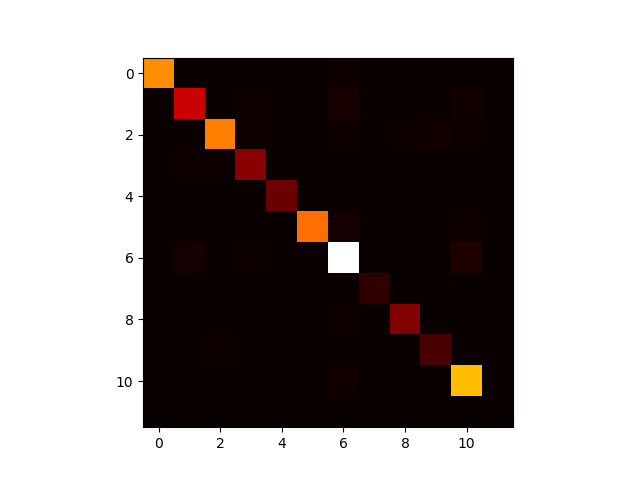
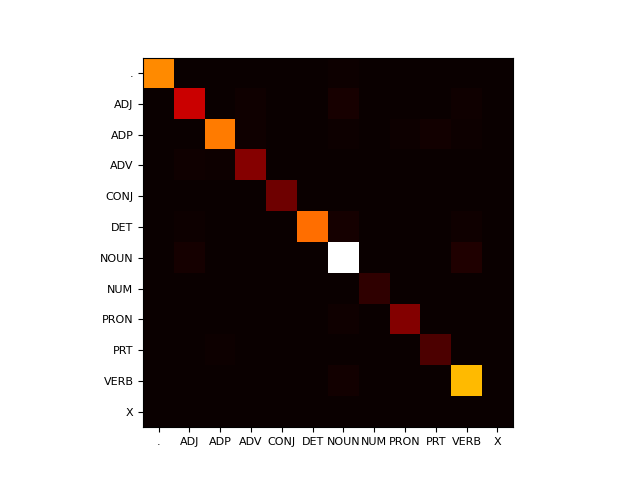
final

diff --git a/tagger.py b/tagger.py
@@ -114,8 +114,14 @@ class Tagger:
             trueTag = self.taginds[trueTag]
             confmat[pred,trueTag]+=1
         accuracy = np.sum(np.array([confmat[i,i] for i in range(numtags)]))/total
-        perPOS_acc = [confmat[i,i]/(max(1,np.sum(confmat[:,i]))) for i in np.arange(numtags)]
-        return confmat,accuracy,perPOS_acc
+        ppos = []
+        pposr = [confmat[i,i]/(max(1,np.sum(confmat[:,i]))) for i in np.arange(numtags)]
+        pposp = [confmat[i,i]/(max(1,np.sum(confmat[i,:]))) for i in np.arange(numtags)]
+        pposf1 = [((2*pposp[i]*pposr[i])/((pposp[i])+(pposr[i]))) for i in np.arange(numtags)]
+        ppos.append(pposp)
+        ppos.append(pposr)
+        ppos.append(pposf1)
+        return confmat,accuracy,np.array(ppos)
     def trainOn(self, trainSents):
         mapped_sents,leastFreqWords = self.get_mapped_sentences(trainSents)
         
@@ -181,7 +187,7 @@ class Tagger:
         words_all = list(map(lambda x: x, words_all))
         # print(f'total words: {len(words_all)}')
         words,counts = np.unique(words_all,return_counts=True)
-        # np.savetxt('words.csv',words,fmt="%s")
+        np.savetxt('words.csv',words,fmt="%s")
         freqThres = 2
         for i in range(len(counts)):
             self.freqMap[words[i]] = counts[i]
@@ -208,18 +214,16 @@ class Tagger:
     def get_mapped_sentences_test(self, sents):
         corpus = sents
         sentences = [sent for sent in corpus]
-        
         sentences = self.preProcSents(sentences, False)
-        #TODO: smoothing function
         mapped_sentences = [[ self.wordinds[a] for a in sent] for sent in sentences]
-        # print(sentences[0], mapped_sentences[0])
-
         return mapped_sentences
 
     def saveTagger(self):
         np.save("emmis", self.emmis)
         np.save("trellis", self.trellis)
         np.save("init_prob", self.init_prob)
+        np.savetxt("words",self.words,fmt="%s")
+        np.savetxt("")
     def loadTagger(self):
         #TODO: rewrite this part
         tagged_words = np.asarray(brown.tagged_words())
@@ -276,7 +280,6 @@ class Tagger:
         previous = best_st
 
         if previous is None:
-            # TODO: handle this case:
             print("Probability is 0")
             return []
     
@@ -298,6 +301,7 @@ def findEvalMetrics(k):
     # print(sents[0])
     res = []
     now = time()
+    allitersppos = []
     for i in range(k):
         p1 = sents[:int((i*l)/k)]
         p2 = sents[int((i+1)*l/k):]
@@ -320,46 +324,18 @@ def findEvalMetrics(k):
         predTags = POStagger.testOn(testSentsOnlyWords)
         
         confmat, acc, pposa = POStagger.evalMetrics(predTags,testSentsOnlyTags)
+        allitersppos.append(pposa)
         np.savetxt(f'confmat_{i+1}.csv',confmat,delimiter=', ')
         np.savetxt(f'pposa_{i+1}.csv',pposa,delimiter=', ')
         plt.imshow(confmat,cmap='hot',interpolation='nearest')
+        plt.xticks(np.arange(12),labels=POStagger.tags,fontsize=8)
+        plt.yticks(np.arange(12),labels=POStagger.tags,fontsize=8)
         plt.savefig(f'confmat_{i+1}.png')
         res.append(acc)
-        print(f'Time for iteration: {i+1}: {time() - now}')
+        print(f'Time for iteration {i+1}: {time() - now}')
         now = time()
-        #TODO remove break below 
-        # break
+    np.savetxt('perposmetrics.csv',np.mean(allitersppos,0))
     np.savetxt('accuracy.csv',res)
     return res
 if __name__=='__main__':
-    # tagger = Tagger()
-    # sents = list(brown.tagged_sents(tagset='universal'))
-    # train = sents[:2000]
-    # test = sents[2000:2002]
-    # testSents = list(map(
-    #                 lambda sent:list(map(lambda wt:wt[0],sent)),
-    #                 test
-    #                 ))
-    # testTags = list(map(
-    #     lambda sent:list(map(lambda wt:wt[1],sent)),
-    #     test
-    # ))
-    # tagger.trainOn(train)
-    # preds = tagger.testOn(testSents)
-    # evals = []
-    # for i in range(len(preds)):
-    #     # print()
-    #     evals.append(list(zip(testSents[i],preds[i],test[i])))
-    # np.savetxt('evals.txt',np.asarray(evals),fmt="%s")
-    # # for sent in sents:
-    # #     print(list(map(lambda wt:tagger.words[wt[0]],sent)))
-    # # tagger.saveTagger()
-    # # tagger.loadTagger()
-    # # sent = tagger.viterbi([6667, 2959, 1884, 3131, 3766])
-    # # print(sent)
-    # exit()
     findEvalMetrics(5)
-
-
-    # ###Test:
-    # testSent = "the fox hunted for the man"

diff --git a/score.py b/score.py
@@ -1,0 +1,19 @@
+import numpy as np
+scores = np.loadtxt('perposmetrics.csv',delimiter=', ')
+emmis = np.loadtxt('emmis.csv')
+prec = scores[0,:]
+rec = scores[1,:]
+beta = 0.5
+fbeta  = lambda beta : (lambda _prec,_rec: (1+beta**2)*(_prec*_rec)/(((beta**2)*_prec) + _rec))
+freqs = np.sum(emmis,0)/np.sum(emmis)
+wtdprec = np.matmul(freqs,prec.T)
+wtdrec = np.matmul(freqs,rec.T)
+fscores = [
+    [0.5,0.5],
+    [1,1],
+    [2,2]
+]
+for i in range(len(fscores)):
+    score,_ = fscores[i]
+    fscores[i][1] = fbeta(score)(wtdprec,wtdrec)
+np.savetxt('fscores.csv',np.array(fscores))

diff --git a/test.py b/test.py
@@ -1,0 +1,5 @@
+import numpy as np
+a = []
+for i in range(3):
+    a.append(np.random.random((4,10)))
+print((np.mean(a,0)).shape)
